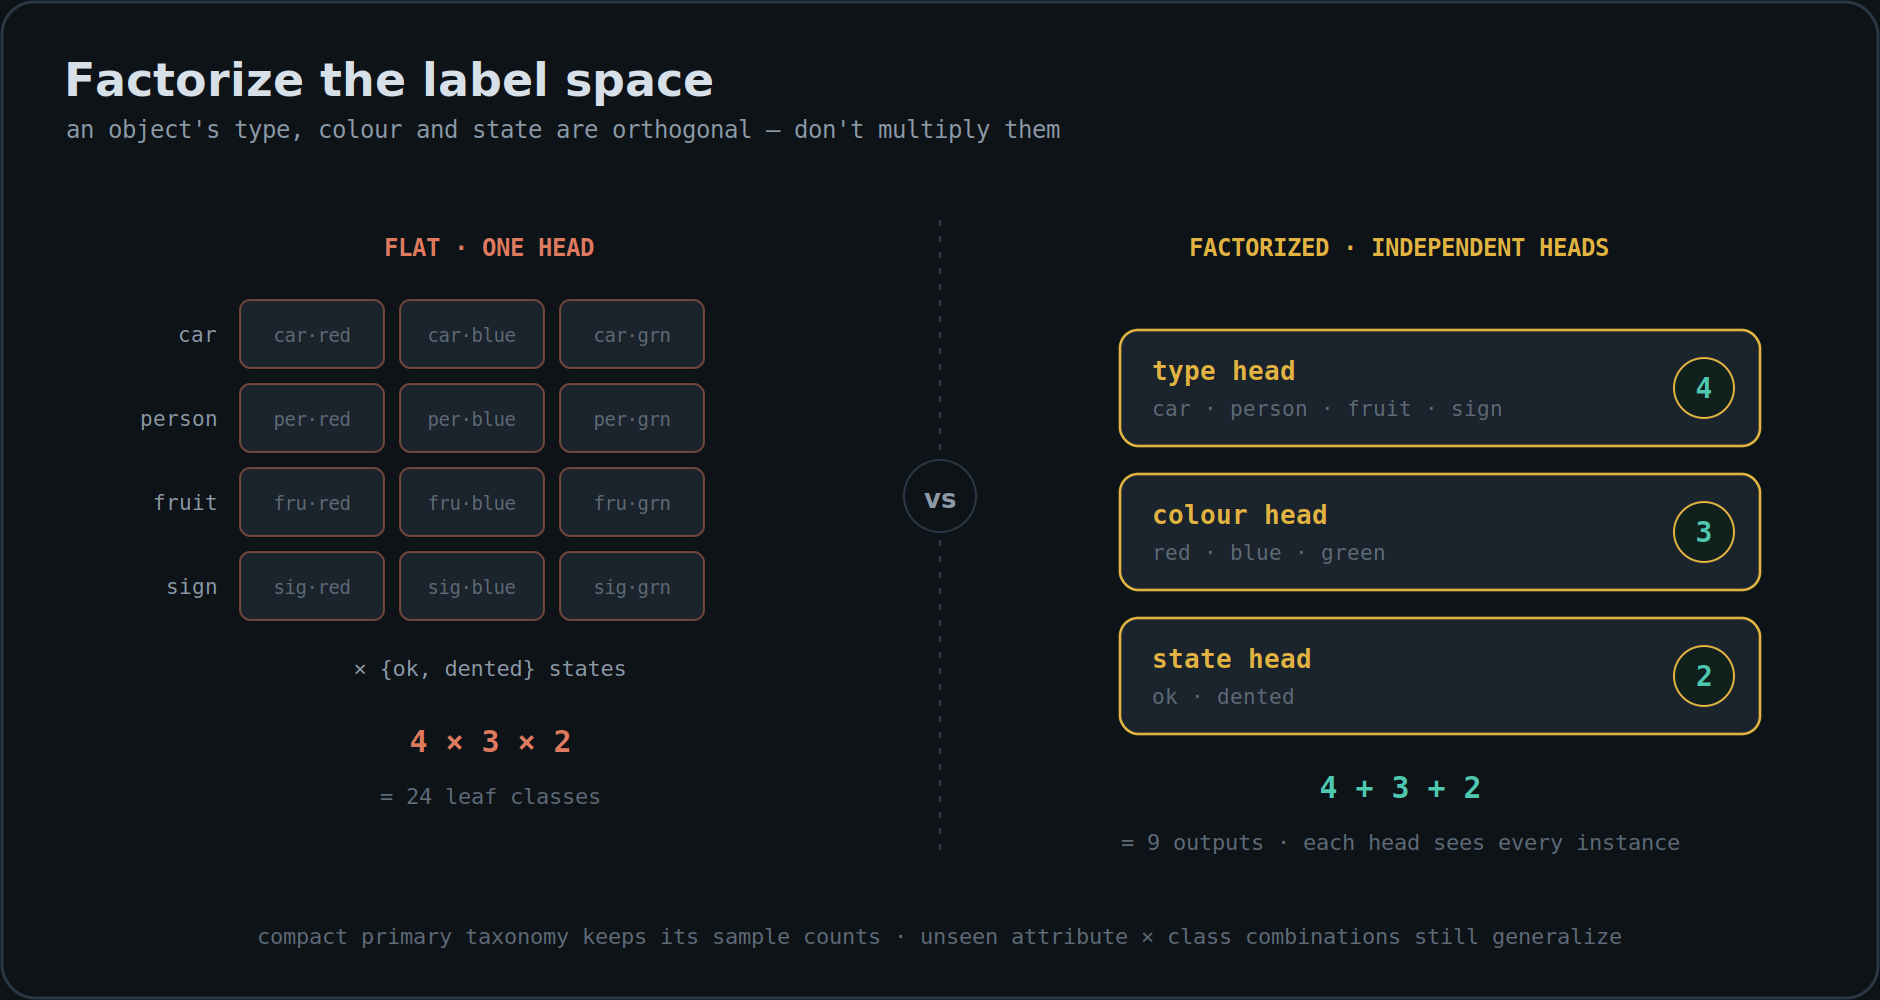
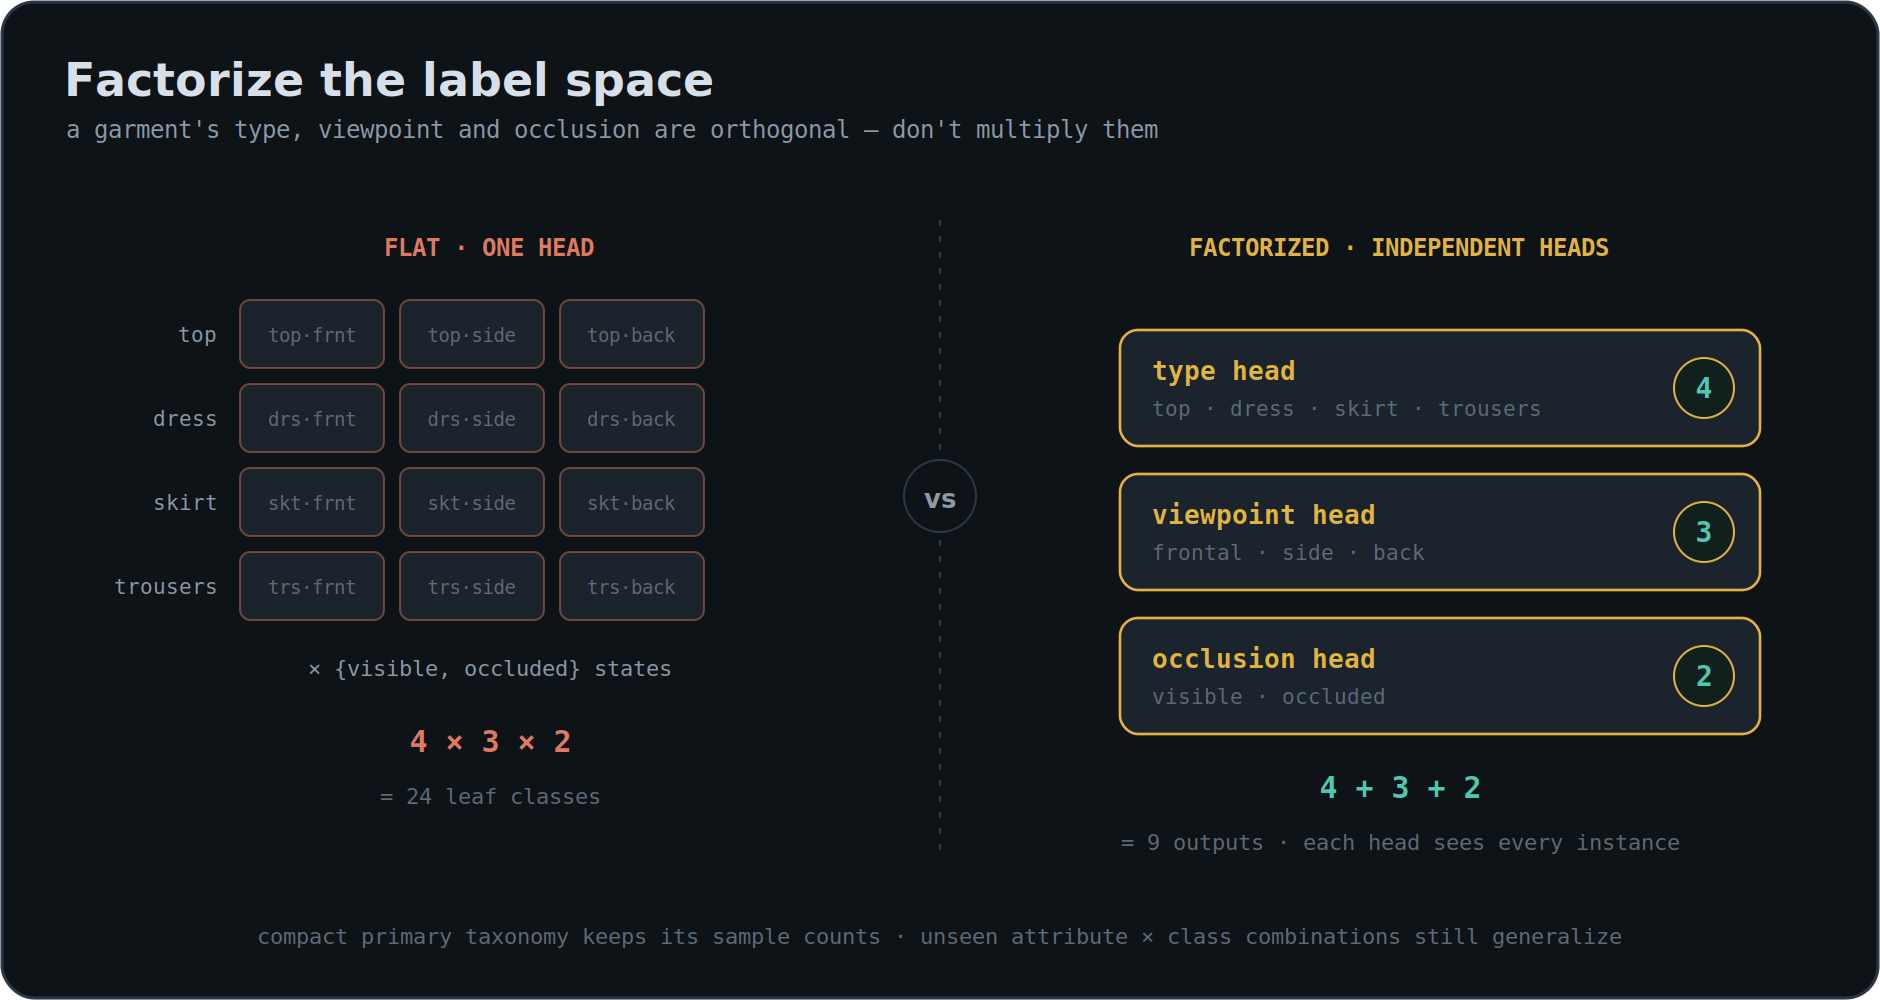
readme

diff --git a/site/index.html b/site/index.html
@@ -151,7 +151,7 @@
     <li>the <span class="pr-em">class head</span> (<code>class_predictor</code>) turns it into a primary label,</li>
     <li>the <span class="pr-em">mask head</span> (or a box head, in the <code>detect</code> family) turns it into geometry.</li>
   </ul>
-  <p>It's <strong>NMS-free</strong>: two overlapping cars stay two distinct queries instead of being merged by non-max suppression. That property is what lets attributes stay attached to the right instance.</p>
+  <p>It's <strong>NMS-free</strong>: two overlapping garments stay two distinct queries instead of being merged by non-max suppression. That property is what lets attributes stay attached to the right instance.</p>
 
   <table>
     <thead><tr><th>size</th><th>backbone</th><th>hidden</th><th>queries</th></tr></thead>
@@ -168,8 +168,8 @@
 <section>
   <div class="tag">Why attributes exist</div>
   <h2>The label space explodes</h2>
-  <p>A normal detector has one flat list of classes. So when an object has a <em>type</em> <strong>and</strong> a <em>colour</em> <strong>and</strong> a <em>state</em>, the only way to express it is the Cartesian product: <code>type × colour × state</code>. That blows up combinatorially, starves each leaf class of examples, and multiplies the targets the Hungarian matcher has to assign.</p>
-  <p><strong>attr-eomt factorizes instead.</strong> Keep the primary taxonomy small and general (<code>car</code>, <code>apple</code>, <code>person</code>); push orthogonal distinctions into <span class="ax-em">independent heads</span> that add, not multiply. Drag the sliders — this is the entire argument for the feature:</p>
+  <p>A normal detector has one flat list of classes. So when an object has a <em>type</em> <strong>and</strong> a <em>viewpoint</em> <strong>and</strong> an <em>occlusion</em> level, the only way to express it is the Cartesian product: <code>type × viewpoint × occlusion</code>. That blows up combinatorially, starves each leaf class of examples, and multiplies the targets the Hungarian matcher has to assign.</p>
+  <p><strong>attr-eomt factorizes instead.</strong> Keep the primary taxonomy small and general (<code>short_sleeve_top</code>, <code>dress</code>, <code>trousers</code>); push orthogonal distinctions into <span class="ax-em">independent heads</span> that add, not multiply. Drag the sliders — this is the entire argument for the feature:</p>
 
   <div class="widget">
     <h3>Flat label space vs. factorized heads</h3>
@@ -179,33 +179,33 @@
       <output id="to">4</output>
     </div>
     <div class="ctrl">
-      <label for="c">colour values</label>
-      <input id="c" type="range" min="2" max="12" value="6" aria-label="number of colour values">
-      <output id="co">6</output>
+      <label for="c">viewpoint values</label>
+      <input id="c" type="range" min="2" max="12" value="3" aria-label="number of viewpoint values">
+      <output id="co">3</output>
     </div>
     <div class="ctrl">
-      <label for="d">damage states</label>
-      <input id="d" type="range" min="2" max="8" value="3" aria-label="number of damage states">
+      <label for="d">occlusion levels</label>
+      <input id="d" type="range" min="2" max="8" value="3" aria-label="number of occlusion levels">
       <output id="do">3</output>
     </div>
     <div class="verdict">
       <div class="card flat">
         <div class="lab">Flat — one head</div>
-        <div class="big" id="flat">72</div>
-        <div class="sub" id="flatx">4 × 6 × 3 leaf classes</div>
+        <div class="big" id="flat">36</div>
+        <div class="sub" id="flatx">4 × 3 × 3 leaf classes</div>
       </div>
       <div class="card fac">
         <div class="lab">Factorized — 3 heads</div>
-        <div class="big" id="fac">13</div>
-        <div class="sub" id="facx">4 + 6 + 3 outputs</div>
+        <div class="big" id="fac">10</div>
+        <div class="sub" id="facx">4 + 3 + 3 outputs</div>
       </div>
     </div>
-    <p class="gap">The flat space is <b id="ratio">5.5×</b> larger — and each of those leaves has to be learned from its own scarce examples. Factorized heads each see <em>every</em> instance.</p>
+    <p class="gap">The flat space is <b id="ratio">3.6×</b> larger — and each of those leaves has to be learned from its own scarce examples. Factorized heads each see <em>every</em> instance.</p>
   </div>
 
   <div class="note q">
     <span class="ic">↳</span>
-    <p>Because the heads are independent, the model can predict <code>red</code> on a class it <em>never saw in red</em> during training — it composes <span class="ax-em">attribute × class</span> combinations a flat label space cannot even represent.</p>
+    <p>Because the heads are independent, the model can predict <code>side</code> on a garment it <em>never saw sideways</em> during training — it composes <span class="ax-em">attribute × class</span> combinations a flat label space cannot even represent.</p>
   </div>
 </section>
 
@@ -377,7 +377,7 @@ matched  = gather_matched(out, indices)                          <span class="c"
 <section style="border-bottom:none">
   <div class="tag">The whole idea, once more</div>
   <h2>Factorize the labels, tap the embedding, reuse the match</h2>
-  <p>Keep the primary taxonomy small and well-populated. For everything orthogonal — colour, state, grade, laterality — attach an <span class="ax-em">independent head</span> that reads the <span class="q-em">per-query embedding</span> the detector already produces, supervise it on the <span class="pr-em">detector's own Hungarian match</span>, and add a cross-entropy term. You get composable, generalizing per-instance attributes for almost no extra compute, and the primary detection metric stays exactly as it was.</p>
+  <p>Keep the primary taxonomy small and well-populated. For everything orthogonal — scale, occlusion, zoom, viewpoint — attach an <span class="ax-em">independent head</span> that reads the <span class="q-em">per-query embedding</span> the detector already produces, supervise it on the <span class="pr-em">detector's own Hungarian match</span>, and add a cross-entropy term. You get composable, generalizing per-instance attributes for almost no extra compute, and the primary detection metric stays exactly as it was.</p>
 </section>
 
 </main>

diff --git a/README.md b/README.md
@@ -55,9 +55,9 @@ with a fixed set of **learnable queries** (the Mask2Former idea) — each query 
 "slot" that latches onto one object instance. After the encoder runs, every query emits
 a single vector, the **per-query embedding** of shape `[B, Q, hidden]`. The whole model
 is then just "turn that embedding into predictions": a **class head** for the primary
-label and a **mask/box head** for geometry. It is **NMS-free**, so two overlapping cars
-stay two distinct queries instead of being merged — the property that lets attributes
-stay attached to the right instance.
+label and a **mask/box head** for geometry. It is **NMS-free**, so two overlapping
+garments stay two distinct queries instead of being merged — the property that lets
+attributes stay attached to the right instance.
 
 The attribute heads add nothing to this picture except themselves: they tap the **exact
 same embedding** (captured non-invasively with a forward hook), each a small classifier
@@ -127,9 +127,9 @@ attribute heads add a thin linear/MLP per head and are negligible by design.
 ## ⭐ Method — factorizing the label space
 
 This is the contribution. Conventional detectors fold every distinction into a single
-flat label space. When an object has both a *type* and several *attributes* — a car's
-make **and** its colour **and** whether a door is open — the only way to express that is
-the Cartesian product `type × colour × state × …`. That space explodes combinatorially,
+flat label space. When an object has both a *type* and several *attributes* — a garment's
+class **and** its viewpoint **and** whether it's occluded — the only way to express that is
+the Cartesian product `type × viewpoint × occlusion × …`. That space explodes combinatorially,
 starves each leaf class of training examples, and breaks Hungarian matching by
 multiplying the query targets.
 
@@ -144,11 +144,11 @@ per-instance query embedding the detector already computes — they **add, not m
 Because the heads are independent:
 
 - **Categories stay collapsed and general.** Keep a compact, well-populated primary
-  taxonomy (`car`, `person`, `fruit`) and push fine-grained or orthogonal distinctions
-  into attributes — every primary class keeps its full sample count instead of being
-  shattered into rare leaves.
-- **Unseen combinations generalize.** A `colour` head trained across many object types
-  predicts `red` on a class it *never co-occurred with in red*, because colour is
+  taxonomy (`short_sleeve_top`, `dress`, `trousers`) and push fine-grained or orthogonal
+  distinctions into attributes — every primary class keeps its full sample count instead
+  of being shattered into rare leaves.
+- **Unseen combinations generalize.** A `viewpoint` head trained across many garment types
+  predicts `side` on a class it *never co-occurred with sideways*, because viewpoint is
   learned independently of type. The model composes `attribute × class` combinations
   that **never appear in the training data** — combinations a flat label space cannot
   even represent.
@@ -173,8 +173,7 @@ on the first row and each attribute + its confidence on the rows beneath it.
 The four attributes are *orthogonal* to the garment class — they vary independently —
 which is exactly the case that's awkward to fold into the primary class space. The same
 pattern fits any "class **plus** per-instance sub-labels" task: **retail shelves →
-product + facing**, **vehicles → type + colour + damage state**, **cells / leaves →
-type + health**.
+product + facing**, **documents → element + role**, **cells → type + health**.
 
 > Trained on the public **[DeepFashion2](https://github.com/switchablenorms/DeepFashion2)**
 > dataset (13 garment classes + 4 attribute heads) and rendered with the package's own